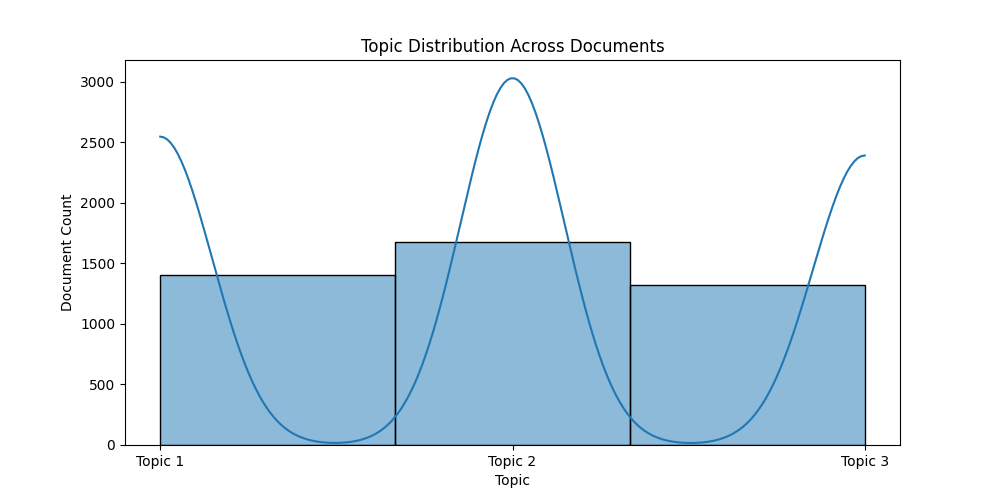
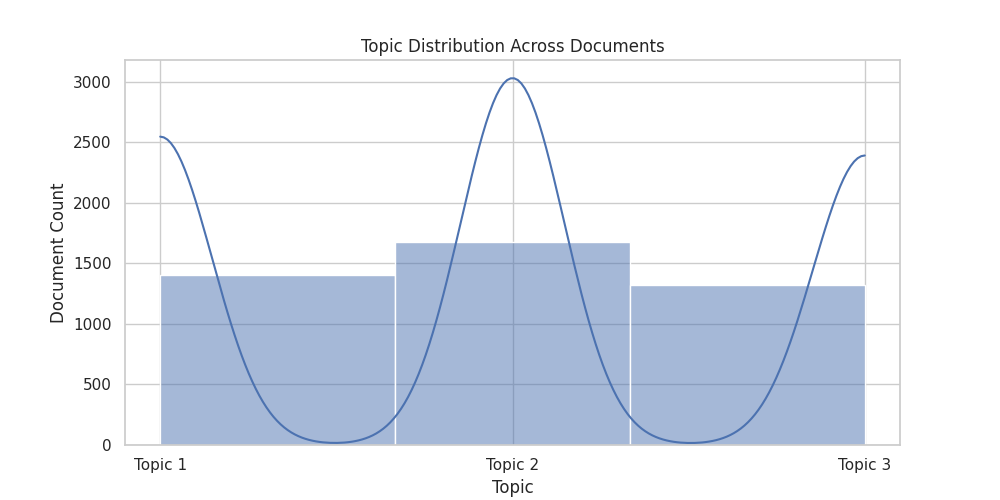
fixed data peristance regarding topic specific summaries

diff --git a/main.py b/main.py
@@ -348,6 +348,8 @@ def sentiment_analysis():
                             summary_result=analysis_data_for_template.get('summary_result'),
                             sentiment_results=analysis_data_for_template.get('sentiment_results'),
                             results_topic_modelling=analysis_data_for_template.get('topic_modelling_results'),
+                            topic_files=analysis_data_for_template.get('topic_files'),
+                            topic_specific_results=analysis_data_for_template.get('topic_specific_results'),
                             predictions_preview=analysis_data_for_template.get('predictions_preview'),
                             available_models=sp.AVAILABLE_MODELS,
                             testing_methods=sp.TESTING_METHODS,
@@ -510,6 +512,7 @@ def topic_modelling_form():
                              column_info=analysis_results.get('column_info'),
                              results_topic_modelling=analysis_results.get('topic_modelling_results'),
                              topic_files=analysis_results.get('topic_files'),
+                             topic_specific_results=analysis_results.get('topic_specific_results'),
                              summary_result=analysis_results.get('summary_result'),
                              sentiment_results=analysis_results.get('sentiment_results'),
                              predictions_preview=analysis_results.get('predictions_preview'),
